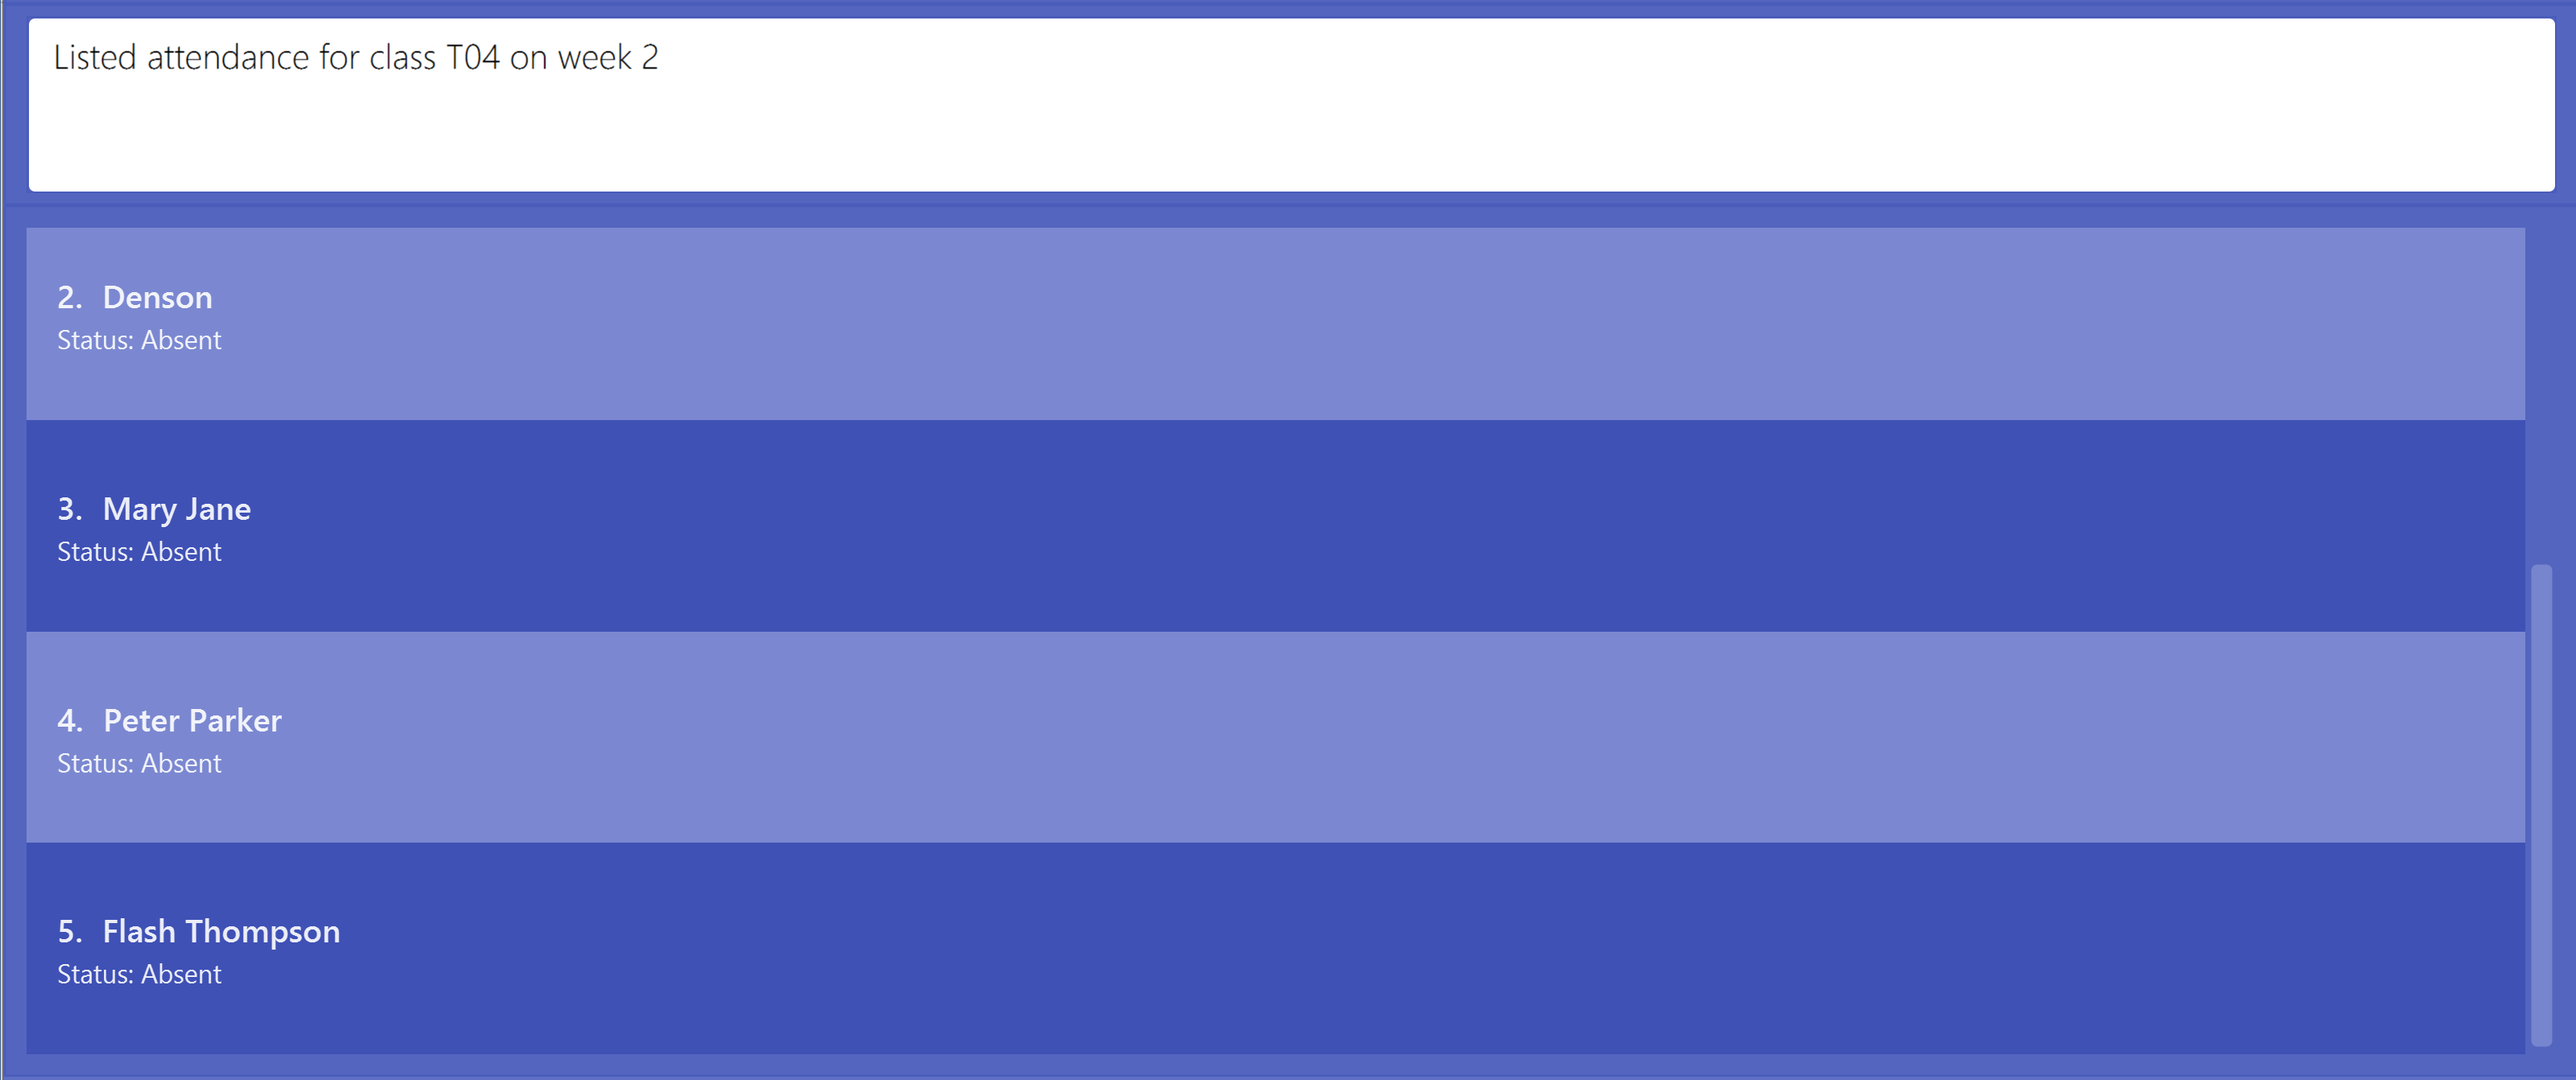
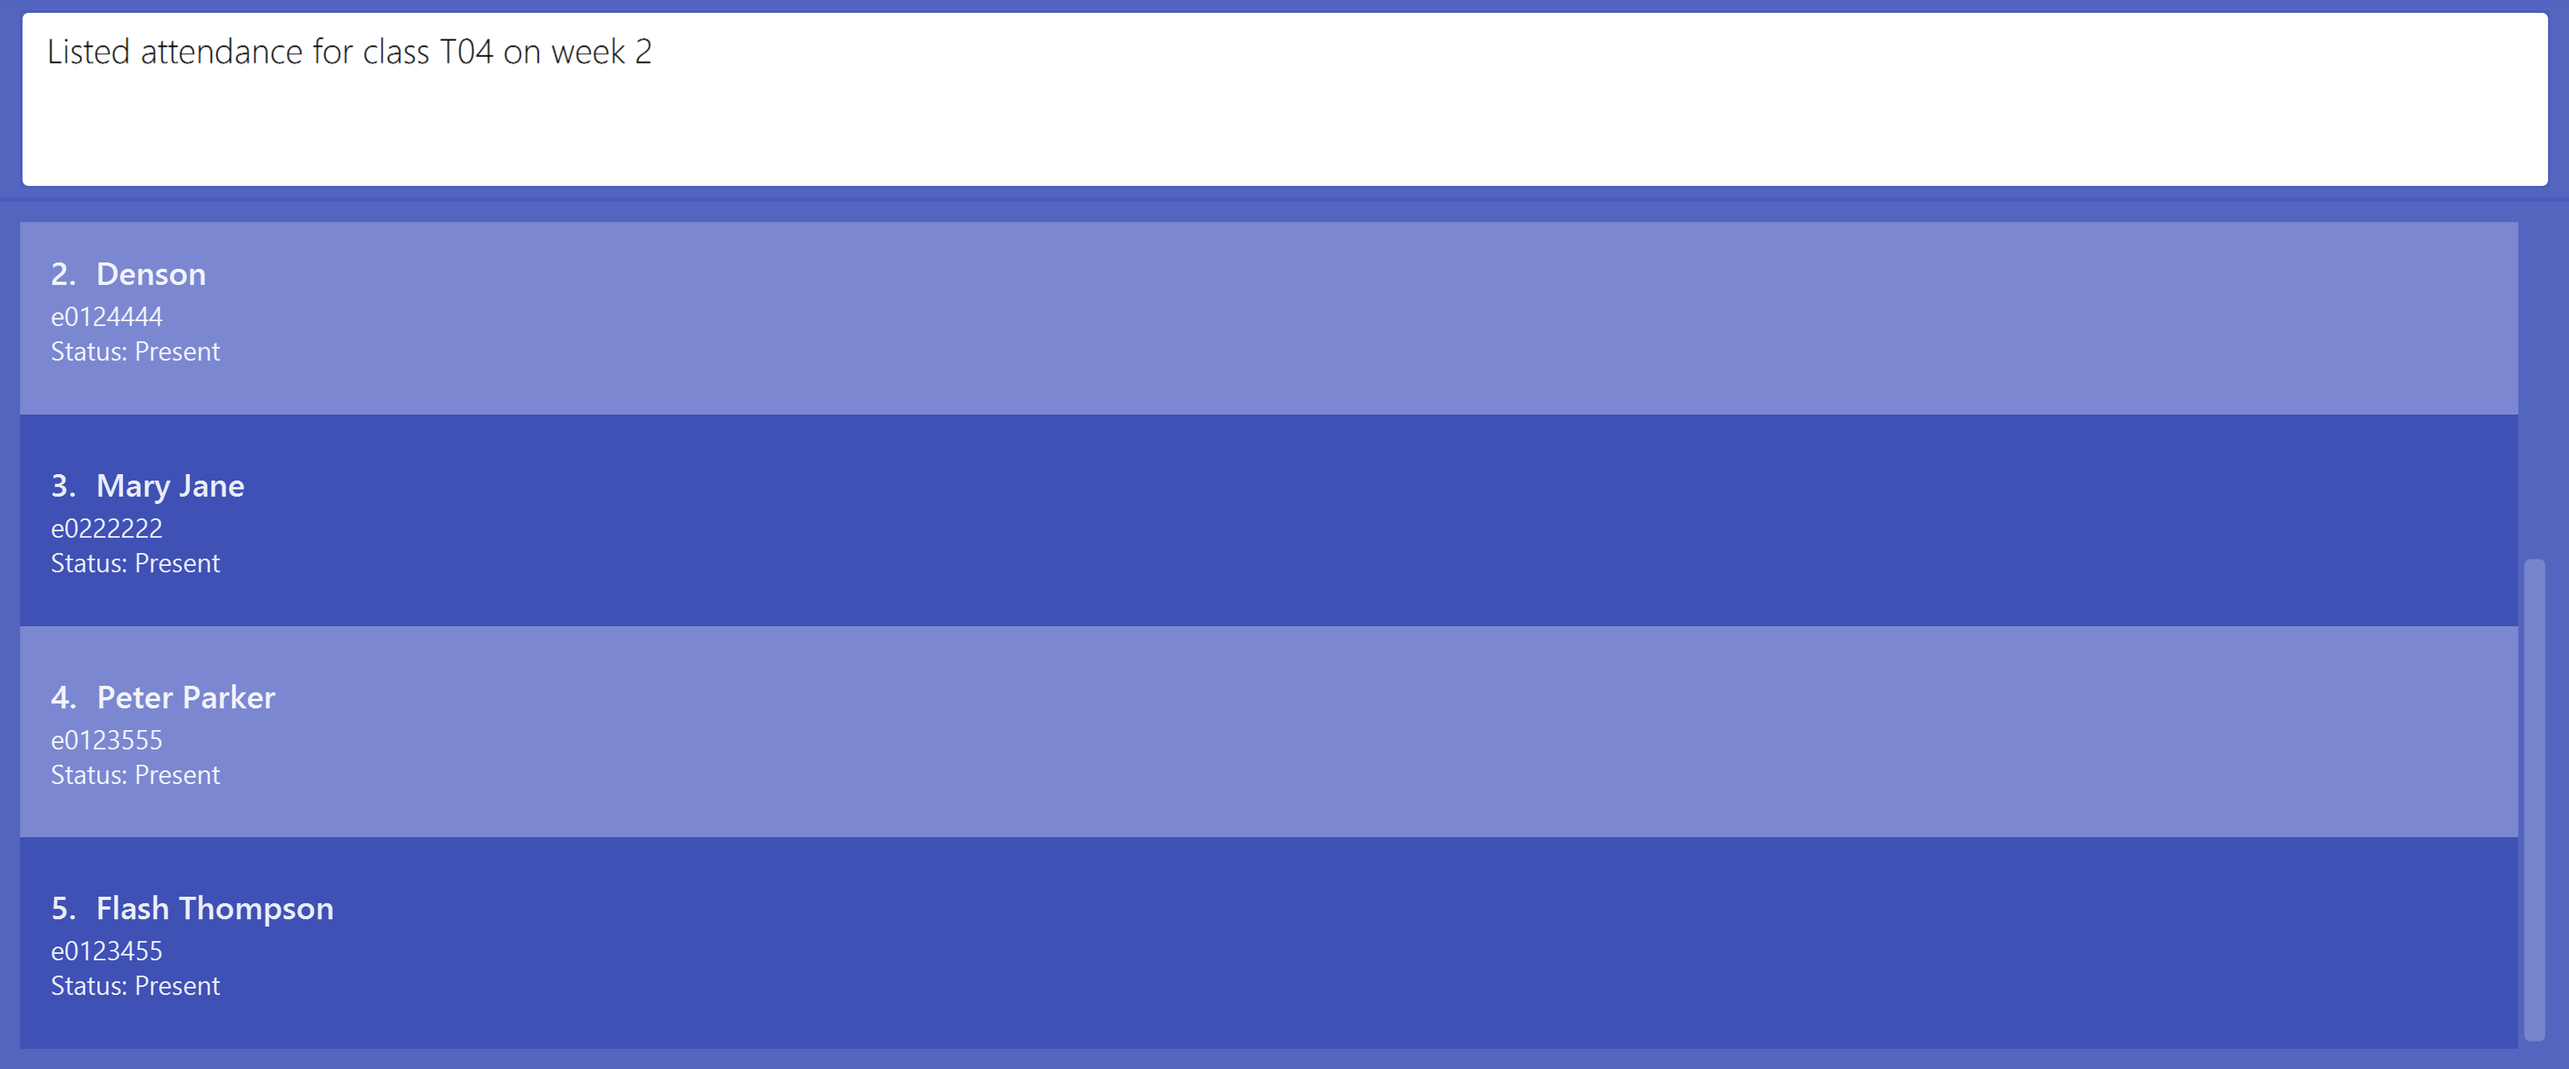
Update UG according to latest commit

diff --git a/docs/UserGuide.md b/docs/UserGuide.md
@@ -171,12 +171,12 @@ Examples:
 
 Adds a comment for a student.
 
-Format: `comment n/NAME msg/COMMENT`
-* `NAME` refers to the student's name saved in camNUS.
+Format: `comment id/STUDENT_ID msg/COMMENT`
+* `STUDENT_ID` refers to the student's unique NUSNET ID.
 * `COMMENT` is the message to be commented.
 
 Examples:
-* `comment n/Denson msg/Unable to attend the next tutorial.`
+* `comment id/e0123456 msg/Unable to attend the next tutorial.`
 
 ### Listing Commands
 
@@ -214,8 +214,9 @@ Examples:
 
 Shows a list of all students of a specified class.
 
-Format:`list_student INDEX` or `list_student tn/TUTORIAL_NAME`
+Format:`list_student`, `list_student INDEX` or `list_student tn/TUTORIAL_NAME`
 
+* If no parameters are given, the list of contacts who are students will be displayed.
 * `TUTORIAL_NAME` should not be given if `INDEX` is given.
 * `INDEX` should not be given if `TUTORIAL_NAME` is given.
 * `list_class` command should be called before `list_student INDEX` as `INDEX` is relative to this list.
@@ -250,16 +251,16 @@ Format:
    * `TUTORIAL_NAME` refers to the name of an existing tutorial group.
    * `WEEK` refers to the week number of the requested attendance list.
    * Shows attendance of all students belonging to the class with the specified `TUTORIAL_NAME`.
-2. `list_attendance n/NAME`
-   * `NAME` refers to the student's name saved in camNUS.
+2. `list_attendance id/STUDENT_ID`
+   * `STUDENT_ID` refers to the student's unique NUSNET ID.
    * Shows attendance of student with specified `STUDENT_ID`.
 
 Examples:
 
 * `list_attendance tn/T04 wk/2`
   ![result for `list_attendance tn/T04 wk/2`](images/listAttendance.png)
-* `list_attendance n/Denson`
-  ![result for `list_attendance n/Denson`](images/listAttendanceByStudent.png)
+* `list_attendance id/e0124444`
+  ![result for `list_attendance id/e0124444`](images/listAttendanceByStudent.png)
   
 
 ### Editing a person : `edit`
@@ -359,19 +360,19 @@ Examples:
 
 Removes a student from a given class, replaces the `Student` contact with a `Person` contact.
 
-Format: `remove_student INDEX tn/TUTORIAL_NAME` or `remove_student n/NAME tn/TUTORIAL_NAME`.
+Format: `remove_student INDEX tn/TUTORIAL_NAME` or `remove_student id/STUDENT_ID tn/TUTORIAL_NAME`.
 
 * `list_student` has to be called before `remove_student` as this is the list referred to by the `remove_student` command
 * Removes the student with the specified `INDEX` or `NAME` from the class with specified `TUTORIAL_NAME`.
 * The `INDEX` refers to the index number shown in the displayed list of student in the class.
-* The `NAME` refers to the name of a particular student saved in camNUS.
+* `STUDENT_ID` refers to the student's unique NUSNET ID.
 * After this command is called, tutorial name and student id of the student will be deleted.
 * The index **must be a positive integer** 1, 2, 3, …
 
 Examples:
 
 * `remove_student 1 tn/G04`
-* `remove_student n/John Tan tn/G04`
+* `remove_student id/e0123456 tn/G04`
 
 #### Deleting an assessment component: `delete_assessment`
 
@@ -390,11 +391,11 @@ Examples:
 
 Removes a comment for a student.
 
-Format: `remove_comment n/NAME`
-* `NAME` refers to the student's name saved in camNUS.
+Format: `remove_comment id/STUDENT_ID`
+* `STUDENT_ID` refers to the student's unique NUSNET ID.
 
 Examples:
-* `remove_comment n/NAME`
+* `remove_comment id/e0123456`
 
 ### Assigning assessment score to a student: `grade`
 
@@ -412,42 +413,42 @@ Example: `grade as/Test 1 n/Amy Tan s/5`
 
 Marks attendance for a specified student or all students in a specified class for a specified week.
 
-Format: `mark_attendance tn/TUTORIAL_NAME [n/NAME] wk/WEEK`
+Format: `mark_attendance tn/TUTORIAL_NAME [id/STUDENT_ID] wk/WEEK`
 
-* `NAME` is optional.
-* `NAME` refers to the student's name saved in camNUS.
+* `STUDENT_ID` is optional.
+* `STUDENT_ID` refers to the student's unique NUSNET ID.
 * `TUTORIAL_NAME` refers to the name of the tutorial group the student is assigned to.
 
 Examples:
 
-* `mark_attendance tn/T04 n/John Tan wk/1`
+* `mark_attendance tn/T04 n/e0123456 wk/1`
 * `mark_attendance tn/T04 wk/1`
 
 ### Unmarking attendance for a student: `unmark_attendance`
 
 Unmarks attendance for a specified student or all students in a specified class for a specified week.
 
-Format: `unmark_attendance tn/TUTORIAL_NAME [n/NAME] wk/WEEK`
+Format: `unmark_attendance tn/TUTORIAL_NAME [id/STUDENT_ID] wk/WEEK`
 
-* `NAME` is optional.
-* `NAME` refers to the student's name saved in camNUS.
+* `STUDENT_ID` is optional.
+* `STUDENT_ID` refers to the student's unique NUSNET ID.
 * `TUTORIAL_NAME` refers to the name of the tutorial group the student is assigned to.
 
 Examples:
 
-* `unmark_attendance tn/T04 n/John Tan wk/1`
+* `unmark_attendance tn/T04 id/e0123456 wk/1`
 * `unmark_attendance tn/T04 wk/1`
 
 ### Views a comment for a student: `view_comment`
 
 Views a comment for a student.
 
-Format: `view_comment n/NAME`
-* `NAME` refers to the student's name saved in camNUS.
+Format: `view_comment id/STUDENT_ID`
+* `STUDENT_ID` refers to the student's unique NUSNET ID.
 
 Examples:
-* `view_comment n/Flash Thompson`<br>
-  ![result for 'view_comment n/Flash Thompson'](images/viewCommentResult.png)
+* `view_comment id/e0123455`<br>
+  ![result for 'view_comment id/e0123455'](images/viewCommentResult.png)
 
 ### Clearing all entries : `clear`
 
@@ -503,15 +504,15 @@ _Details coming soon ..._
 | **Find**              | `find KEYWORD [MORE_KEYWORDS]`<br> e.g., `find James Jake`<br>`find [n/NAME] [id/STUDENT_ID] [a/ADDRESS] [e/EMAIL] [p/PHONE_NUMBER] [tn/TUTORIAL_NAME] [t/TAG]`<br> e.g. find n/ALIC |
 | **List**              | `list`                                                                                                                                                                               |
 | **List Assessment**   | `list_assessment`                                                                                                                                                                    |
-| **List Attendance**   | `list_attendance tn/TUTORIAL_NAME wk/WEEK` <br> `list_attendance n/NAME` <br> e.g., `list_attendance tn/T04 wk/1` /  `list_attendance n/James`                                       |
+| **List Attendance**   | `list_attendance tn/TUTORIAL_NAME wk/WEEK` <br> `list_attendance id/STUDENT_ID` <br> e.g., `list_attendance tn/T04 wk/1` /  `list_attendance id/e0123456`                            |
 | **List Class**        | `list_class [d/DAY]` <br> e.g., `list_class d/Wed`                                                                                                                                   |
 | **List Student**      | `list_student INDEX [tn/TUTORIAL_NAME]` <br> e.g., `list_student 1 [tn/G04] `                                                                                                        |
 | **List Score**        | `list_score as/ASSESSMENT_NAME tn/TUTORIAL_NAME` <br> e.g., `list_score as/Assignment 1 tn/T04`                                                                                      |
 | **Grade**             | `grade as/ASSESSMENT_NAME n/NAME s/SCORE` <br> e.g., `grade as/Test 1 n/Amy Tan s/5`                                                                                                 |
-| **Mark Attendance**   | `mark_attendance tn/TUTORIAL_NAME [n/NAME] wk/WEEK` <br> e.g., `mark_attendance tn/T04 n/John wk/1`                                                                                  |
-| **Unmark Attendance** | `unmark_attendance tn/TUTORIAL_NAME [n/NAME] wk/WEEK` <br> e.g., `mark_attendance tn/T04 n/Johnson wk/1`                                                                             |
-| **Comment**           | `comment n/NAME msg/COMMENT` <br> e.g., `comment n/Denson msg/Participated actively`                                                                                                 |
-| **Remove Comment**    | `remove_comment n/NAME` <br> e.g., `remove_comment n/Charles`                                                                                                                        |
-| **View Comment**      | `view_comment n/NAME` <br> e.g., `view_comment n/Will Smith`                                                                                                                         |
+| **Mark Attendance**   | `mark_attendance tn/TUTORIAL_NAME [id/STUDENT_ID] wk/WEEK` <br> e.g., `mark_attendance tn/T04 id/e0123456 wk/1`                                                                      |
+| **Unmark Attendance** | `unmark_attendance tn/TUTORIAL_NAME [id/STUDENT_ID] wk/WEEK` <br> e.g., `unmark_attendance tn/T04 id/e0123456 wk/1`                                                                  |
+| **Comment**           | `comment id/STUDENT_ID msg/COMMENT` <br> e.g., `comment id/e0123456 msg/Participated actively`                                                                                       |
+| **Remove Comment**    | `remove_comment id/STUDENT_ID` <br> e.g., `remove_comment id/e0123456`                                                                                                               |
+| **View Comment**      | `view_comment id/STUDENT_ID` <br> e.g., `view_comment id/e0123456`                                                                                                                   |
 | **Help**              | `help [n/COMMAND_NAME]` <br> e.g.,`help n/delete`                                                                                                                                    |
 | **Exit**              | `exit`                                                                                                                                                                               |
